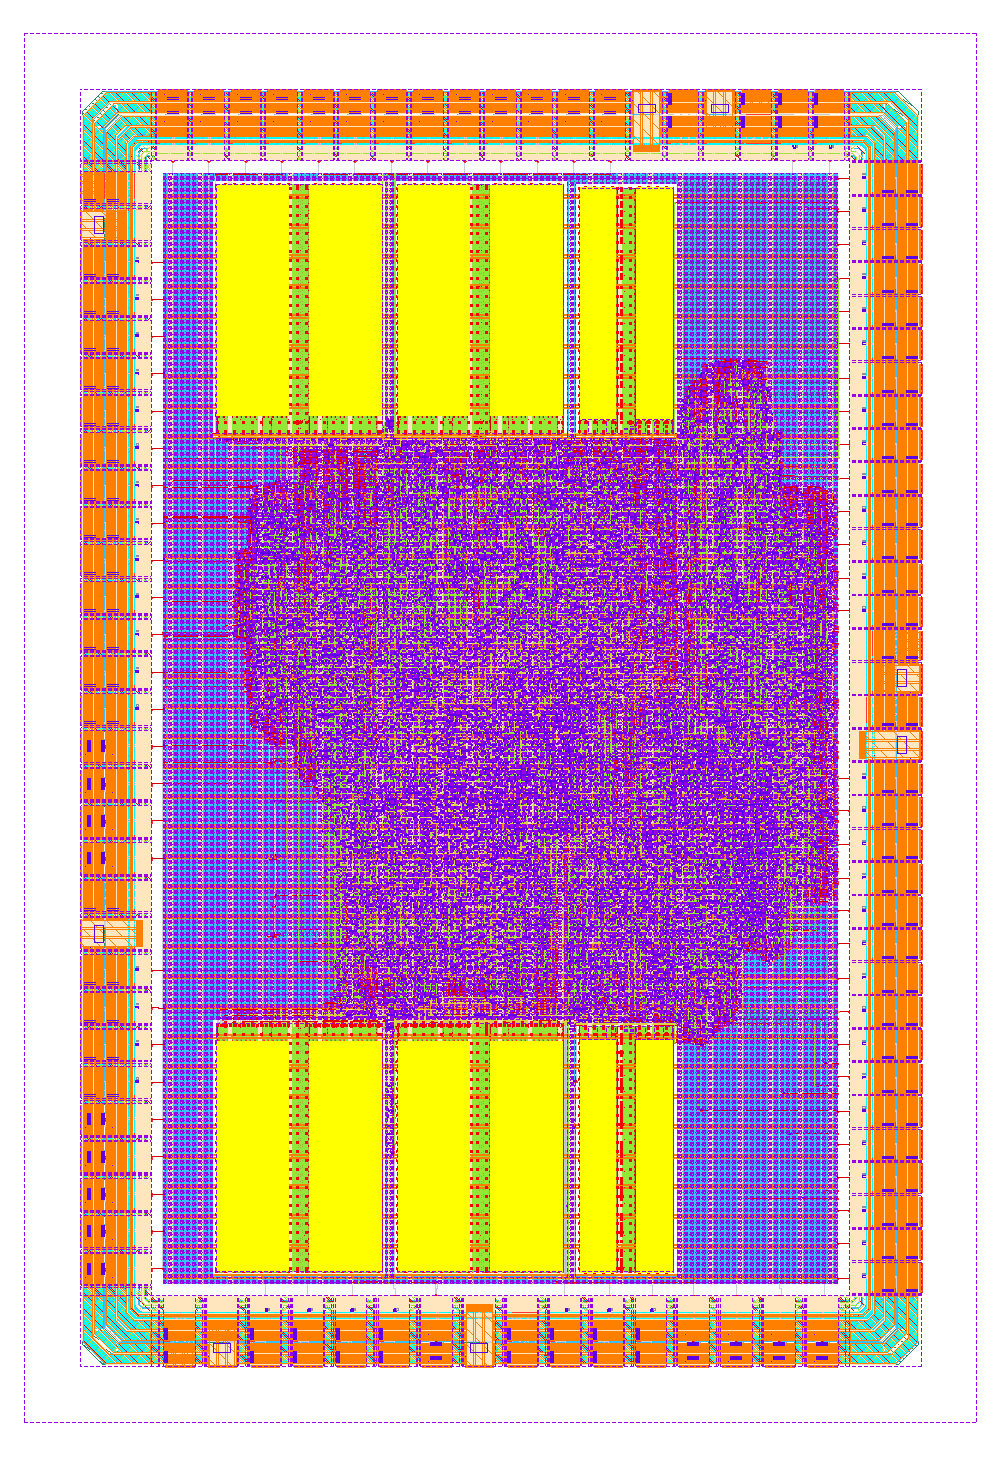
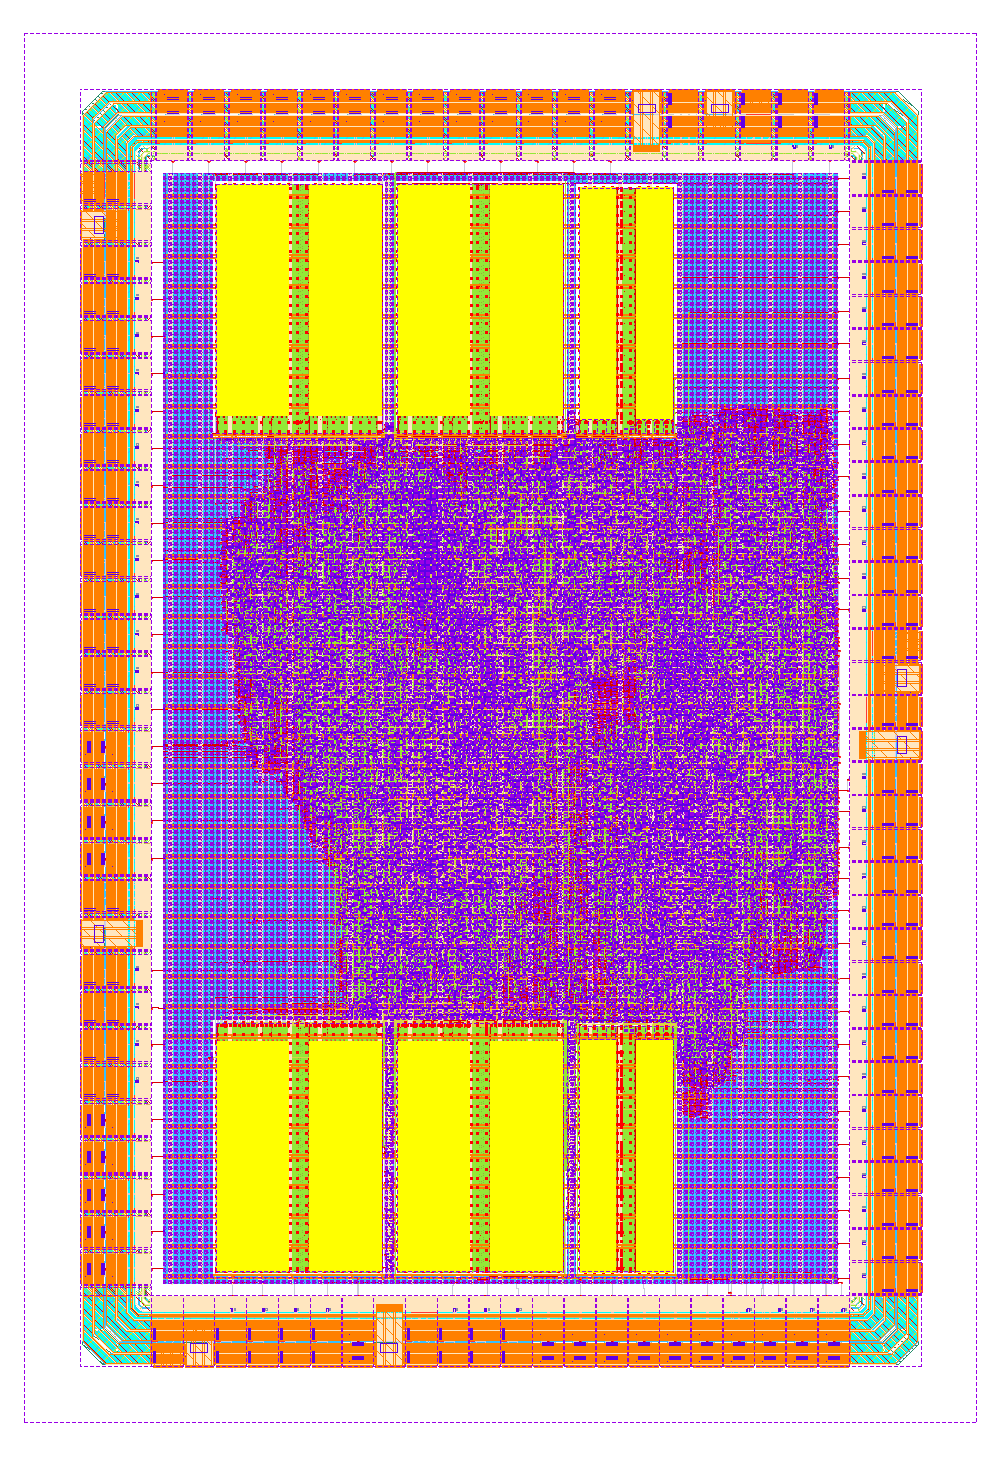
chip: chip2 final hardening -- QSPI loader in, timing closed, LVS unique
The final GDS.  chip2b hardens the complete RTL including the QSPI boot
loader on the 2400 x 3500 um die with all 105 pads, superseding chip1
(which predated the loader).  Signoff:

  routing DRC        0
  antenna            0
  KLayout DRC        0
  GDS XOR            0
  LVS                match uniquely -- 172 684 devices, 91 066 nets
  setup slow corner  +0.040 ns, TNS 0
  hold worst         +0.625 ns, TNS 0
  335 518 instances, 157 MB GDS

Timing closes at the slow corner with the single-cycle multiplier AND
the QSPI mux in -- the mux sits off the fetch critical path by
construction, and the number confirms it.

Deferred unchanged (PDK bugs, both drop in without a floorplan change):
seal ring, density fill.  Open unchanged in kind: 1026 magic illegal-
overlap flags (1017 obsm7/metal7 + 9 obsm3/metal3), IO-cell LEF
obstruction vs routed metal -- LVS matched uniquely through the same
extraction, so abstraction artifacts, not shorts; disposition carried
from chip1.

Die render refreshed to the chip2b layout; README physical figures
updated to the final numbers.

Changed region(s): [[0.155, 0.2469, 0.868, 0.9568], [0.155, 0.4938, 0.186, 0.5247]]

diff --git a/README.md b/README.md
@@ -42,7 +42,7 @@ describe different things.
 > | formal decoder proof over all 2³² encodings | **superseded** — that proof was of variant 1's decoder; see the equivalence benches below |
 > | coverage (O6/O7) | **re-run and met, 2026-09-02** — line 96.1 % measured / **100 % with 23 reviewed waivers**, toggle **96.3 %** (≥ 95 criterion met), functional **100 % of 92 points** covering C/Zcmp, PMP, CLINT, E2E and the debug path |
 > | fault injection, FMEDA | **re-measured on this design** — eight campaigns on the final RTL; FMEDA **SPFM 99.50 %, LFM 92.66 %, residual 1.22 FIT** on *assumed* base rates ([doc/fmeda.md](doc/fmeda.md)) |
-> | RTL2GDS: DRC, LVS, timing closure | **closed at chip level** (`chip1`): setup **+0.373 ns** at the slow corner, hold clean, route DRC/antenna/XOR 0, **LVS matches uniquely** (161 742 devices / 86 330 nets, pad ring included). Seal ring and density fill deferred on PDK bugs; two checks still open — [doc/chip.md](doc/chip.md) |
+> | RTL2GDS: DRC, LVS, timing closure | **closed at chip level** (`chip1`): setup **+0.040 ns** at the slow corner, hold clean, route DRC/antenna/XOR 0, **LVS matches uniquely** (172 684 devices / 91 066 nets, pad ring included). Seal ring and density fill deferred on PDK bugs; two checks still open — [doc/chip.md](doc/chip.md) |
 > | gate-level simulation (O8) | **not done** — awaits work on the `chip1` netlist |
 >
 > What keeps this a warning: O8 is open, the FMEDA's base failure rates
@@ -160,9 +160,9 @@ of minimum-strength `buf_1` fanout-repair buffers
 −0.719 → −0.059 ns.
 
 **Chip** (`flow/runs/chip1`, 2026-09-03/04, with those knobs): **timing
-closed** — setup **+0.373 ns** at slow 1.08 V/125 °C, TNS 0; hold
+closed** — setup **+0.040 ns** at slow 1.08 V/125 °C, TNS 0; hold
 +0.14 ns; route DRC 0; XOR 0; antenna clean; **LVS matches uniquely
-across 161 742 devices and 86 330 nets including the pad ring**. Seal
+across 172 684 devices and 91 066 nets including the pad ring**. Seal
 ring and density fill are **deferred on reproduced PDK bugs** (the
 sealring PCell emits INT32_MIN coordinates for every size; the filler
 OOMs >13 GB on this die) with the die reserving the ring allowance;
@@ -225,7 +225,7 @@ export PATH="/foss/tools/bin:/foss/tools/verilator/bin:$PATH"
 | FMEDA (O9) | **computed on this design** | **SPFM 99.50 %, LFM 92.66 %, residual 1.22 FIT** — past the ASIL D thresholds *on assumed base rates* ([doc/fmeda.md](doc/fmeda.md), 2026-09-02) |
 | Gate-level simulation (O8) | **not done** | awaits work on the `chip1` netlist |
 | Physical, subsystem (`v2full`) | **clean except setup** | routing DRC 0, antenna 0, KLayout DRC 0, XOR 0, LVS unique (153 626 devices / 79 499 nets); setup −0.719 ns slow — root-caused to buf_1 fanout chains and fixed at chip level |
-| Physical, chip (`chip1`) | **timing closed, LVS clean** | setup **+0.373 ns** slow / TNS 0, hold +0.14 ns, route DRC 0, XOR 0, antenna 0; **LVS unique: 161 742 devices / 86 330 nets incl. the pad ring**. Open: chip DRC re-run (first pass judged a stale GDS), 956 obstruction-overlap messages to classify — [doc/chip.md](doc/chip.md) |
+| Physical, chip (`chip1`) | **timing closed, LVS clean** | setup **+0.040 ns** slow / TNS 0, hold +0.14 ns, route DRC 0, XOR 0, antenna 0; **LVS unique: 172 684 devices / 91 066 nets incl. the pad ring**. Open: chip DRC re-run (first pass judged a stale GDS), 956 obstruction-overlap messages to classify — [doc/chip.md](doc/chip.md) |
 | Seal ring | **deferred — PDK bug, reproduced** | sealring PCell emits INT32_MIN coordinates at every size incl. the PDK's own example; die reserves the 140 µm allowance so the ring adds later without floorplan change ([doc/chip.md](doc/chip.md), findings §19) |
 | Density fill | **deferred — tool OOM** | PDK filler >13 GB on the 8.4 mm² die, one fill area at a time; the subsystem flow never ran metal fill either ([doc/chip.md](doc/chip.md)) |
 

diff --git a/doc/chip.md b/doc/chip.md
@@ -21,6 +21,42 @@ blocks are the six TCM SRAM macros (I-TCM south, D-TCM north), the purple
 field is the subsystem logic. The gap between ring and die edge is the
 140 µm `PAD_EDGE_SPACING` reserved for the deferred seal ring.*
 
+
+## Hardening result (chip2 — final, with the QSPI boot loader)
+
+`chip2b` is the final hardening: the complete RTL including the QSPI
+boot loader, 105 pads (99 signal+supply + the 6 QSPI pins), on the same
+2400 × 3500 µm die. It supersedes `chip1` (which predated the loader and
+the QSPI pads). Run 2026-09-06/07.
+
+| Gate | Result |
+|---|---|
+| Detailed routing | **0 DRC** |
+| Antenna, post-route | **0** |
+| KLayout signoff DRC | **0** |
+| GDS XOR | **0** |
+| **LVS** (netgen) | **circuits match uniquely** — 172 684 devices, 91 066 nets |
+| Setup, slow 1.08 V/125 °C | **+0.040 ns**, TNS 0, 0 violations |
+| Setup, typ / fast | +0.299 / +0.111 ns |
+| Hold, worst (slow) | **+0.625 ns**, TNS 0 |
+| 335 518 instances, GDS 157 MB | |
+
+The single-cycle multiplier and the QSPI mux cost nothing on the
+critical path: timing closes at the slow corner with the full design in.
+The die and instance totals are the shipping figures.
+
+**Deferred, unchanged from chip1** (both blocked on PDK bugs, both drop
+in later without a floorplan change): the seal ring and the density
+fill. See §"Deferred" and findings §19.
+
+**Open, unchanged in kind:** 1026 Magic "illegal overlap" flags — 1017
+`obsm7`-vs-`metal7` and 9 `obsm3`-vs-`metal3`, the IO cells' LEF
+obstruction layers against routed metal. LVS matched **uniquely**
+through the same extraction, so these are abstraction artifacts of the
+overlap check, not real shorts; the disposition (exclude the IO cells
+like the SRAMs, or waive with analysis) is the same decision carried
+from chip1.
+
 ## Die
 
 | | |
